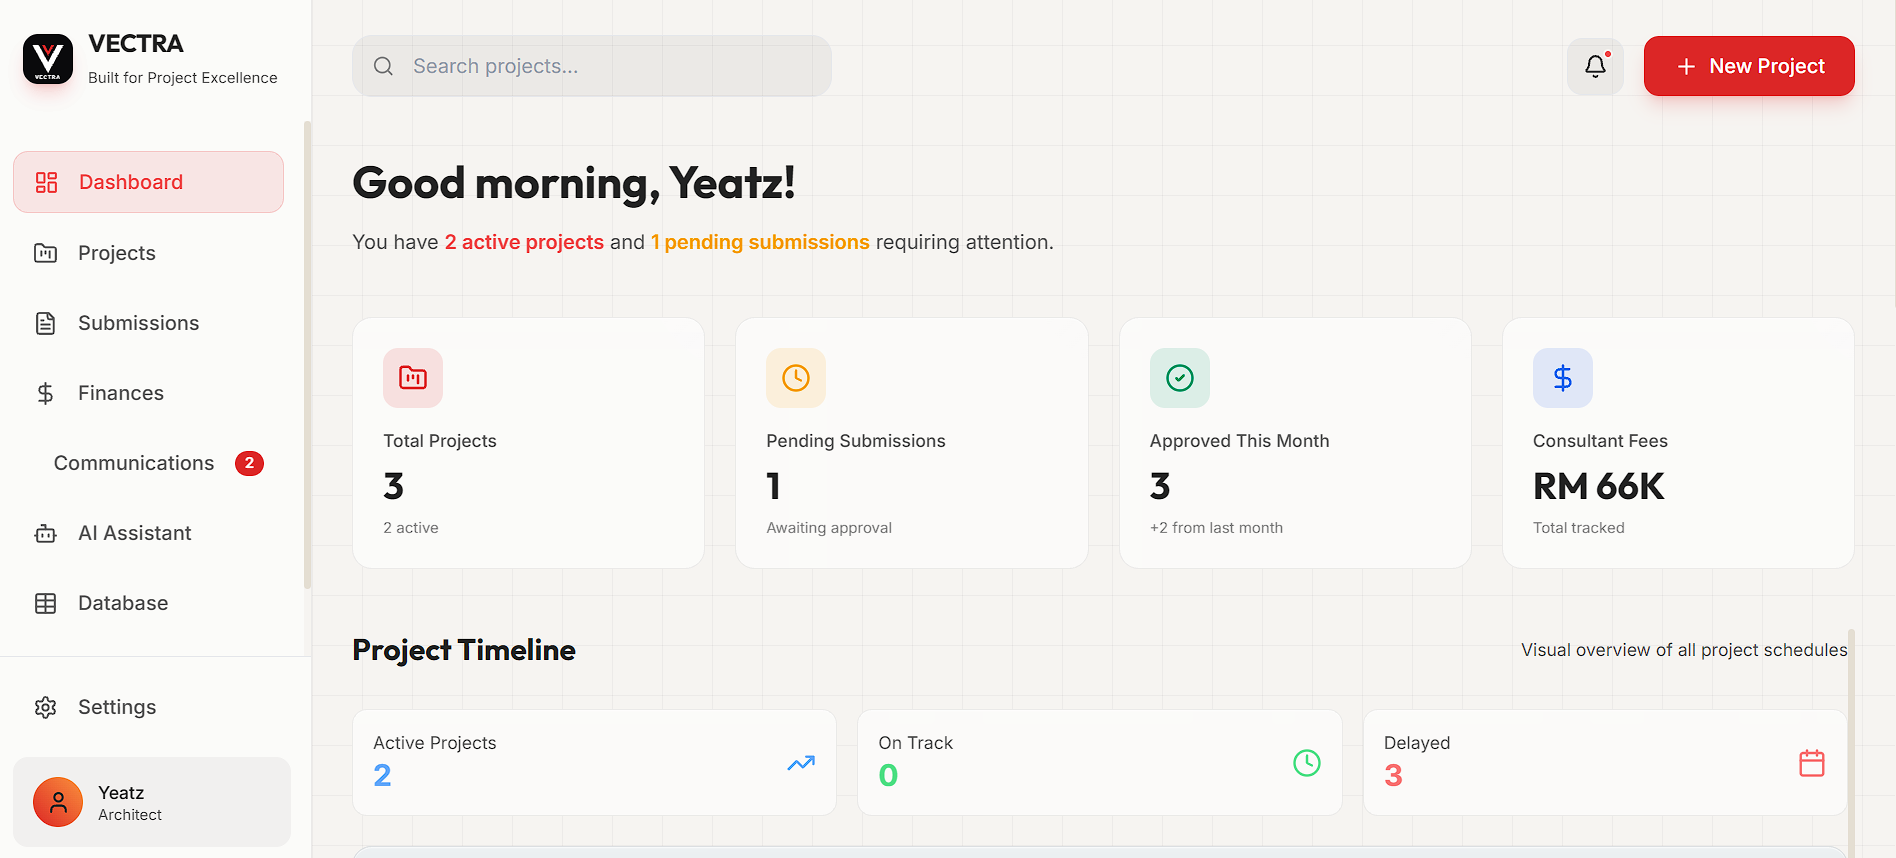
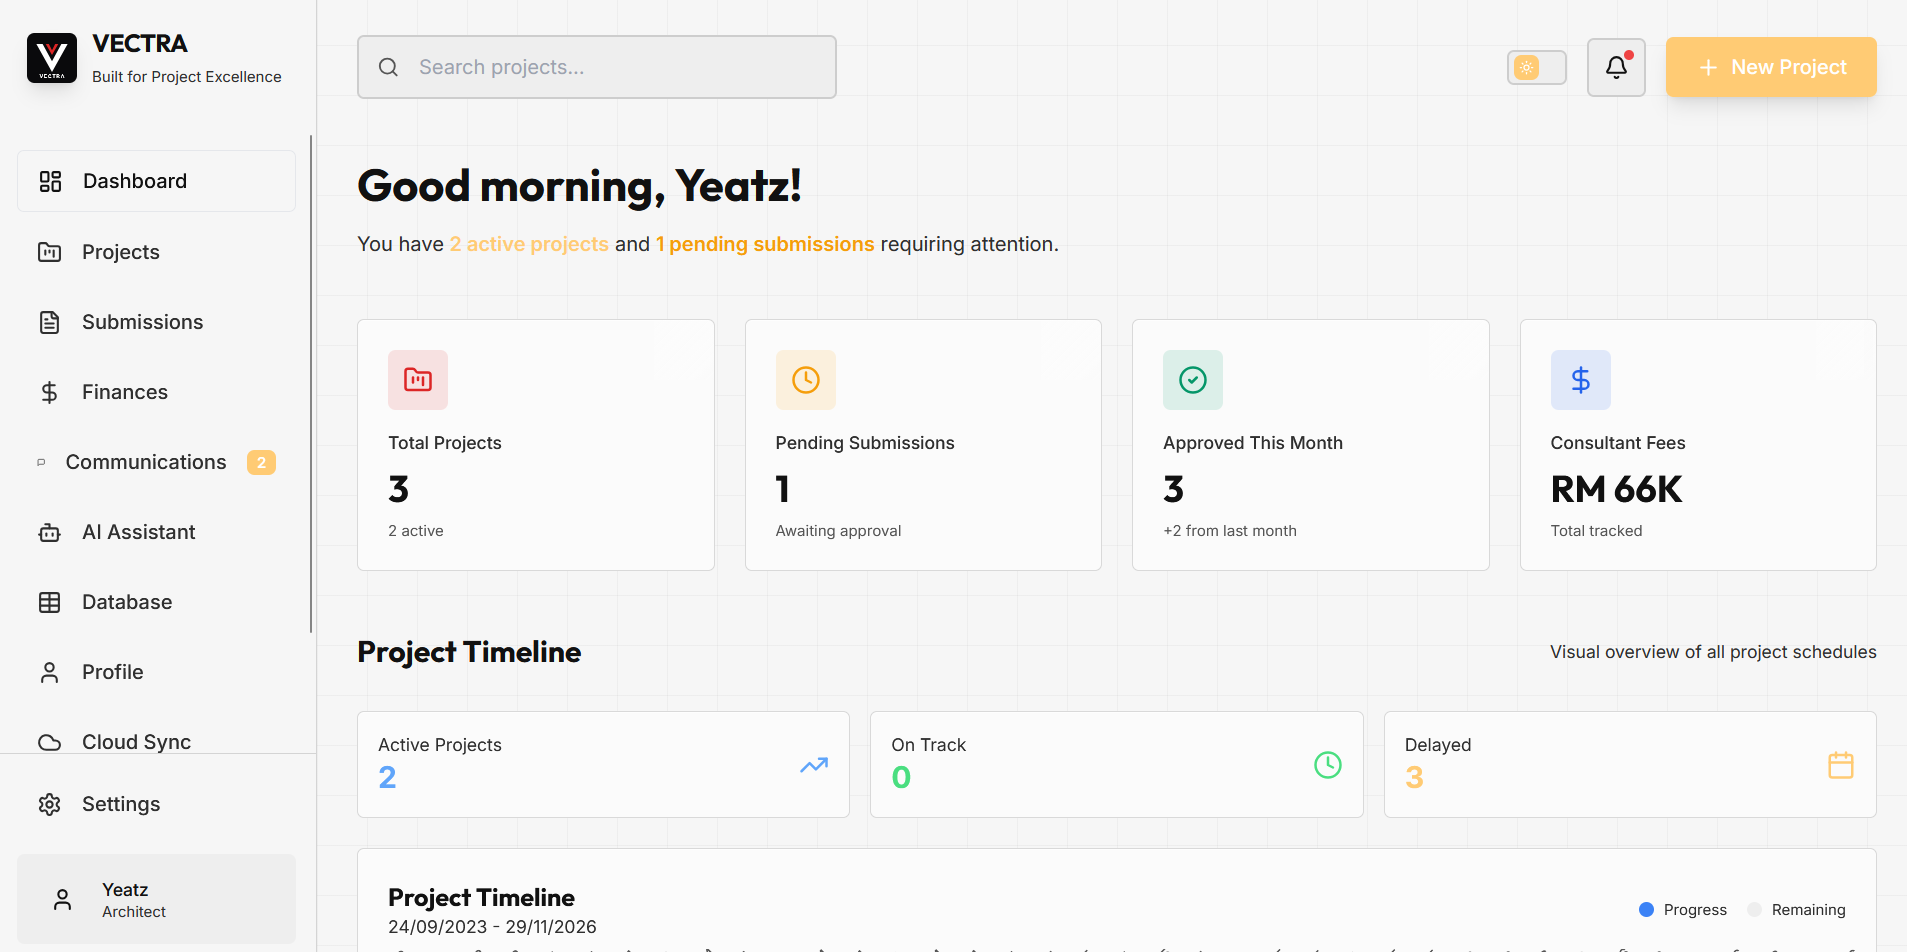
Update README with desktop and mobile screenshots

diff --git a/README.md b/README.md
@@ -4,7 +4,11 @@ VECTRA is a professional project-tracking platform built for architecture and en
 
 ## 🖥 Preview
 
+### Desktop
 ![VECTRA Desktop Preview](public/screenshot-desktop.png)
+
+### Mobile
+![VECTRA Mobile Preview](public/screenshot-mobile.png)
 
 ## ✨ Features
 
